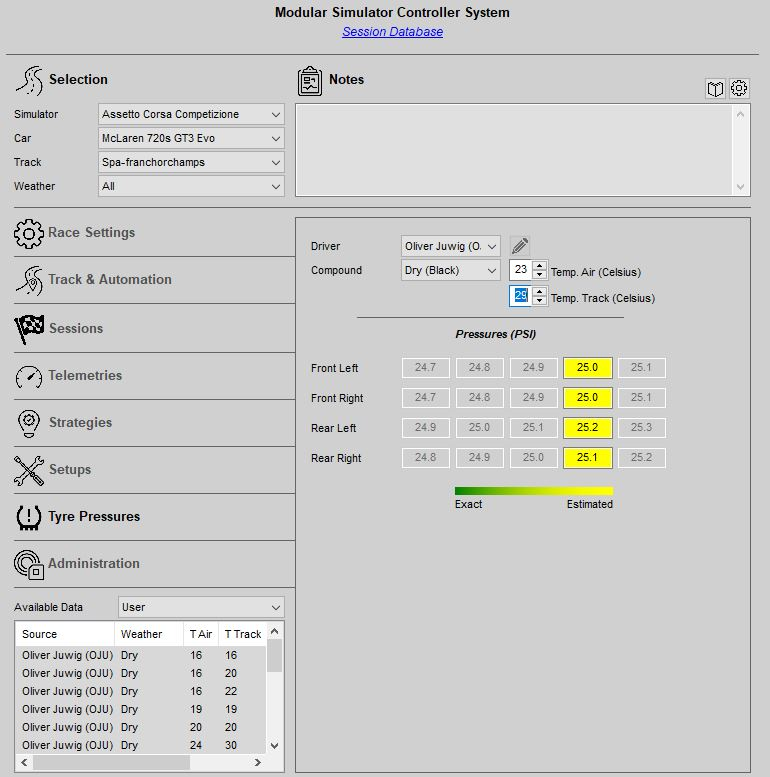
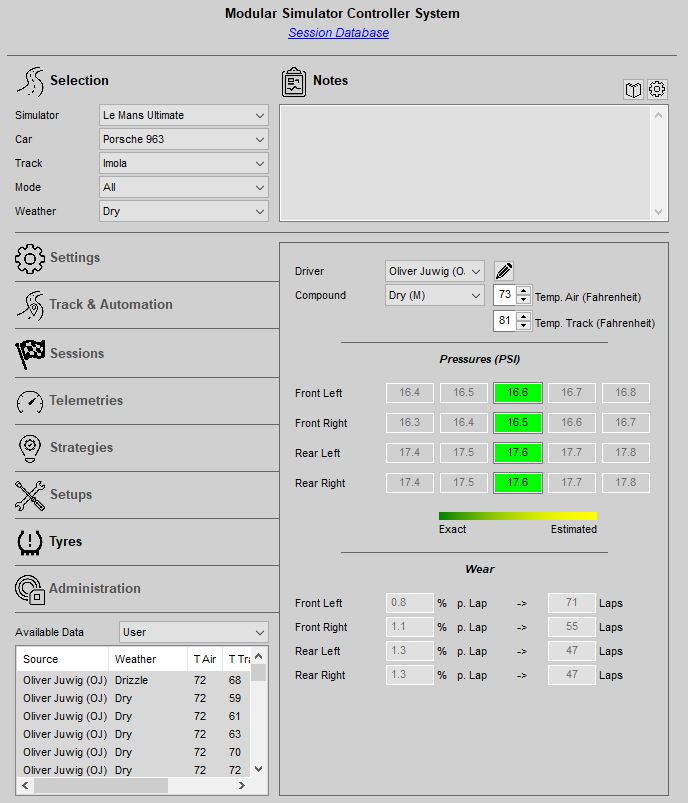
Tyre wear inspector in "Session Database"

diff --git a/Docs/Releases Archive.md b/Docs/Releases Archive.md
@@ -3669,7 +3669,7 @@ Please also take a look at the [Update Notes](https://github.com/SeriousOldMan/S
   3. The position on the screen where info and progress overlays are displayed, can now be configured in the [UI settings](https://github.com/SeriousOldMan/Simulator-Controller/wiki/Using-Simulator-Controller#customizing-controller-notifications).
   4. The session synchronization can be [temporarily disabled](https://github.com/SeriousOldMan/Simulator-Controller/wiki/Team-Center#connecting-to-a-session) in the "Race Center", while you are working with the data.
   5. The Team Server now supports synchronization of telemetry data between different members of a team. The documentation for [team management](https://github.com/SeriousOldMan/Simulator-Controller/wiki/Team-Server#managing-teams) of the Team server itself, as well as the [database configuration](https://github.com/SeriousOldMan/Simulator-Controller/wiki/Session-Database#database-configuration) of the "Session Database" has been heavily revised.
-  6. A driver may be selected in the "Session Database" when [looking for tyre pressures](https://github.com/SeriousOldMan/Simulator-Controller/wiki/Session-Database#pressures). This very helpful when looking for cold tyre pressures for your team mate during a team race.
+  6. A driver may be selected in the "Session Database" when [looking for tyre pressures](https://github.com/SeriousOldMan/Simulator-Controller/wiki/Session-Database#tyres). This very helpful when looking for cold tyre pressures for your team mate during a team race.
   7. Refactoring of the translation framework to better support the new Spanish translation.
   8. Thanks to the great work of Jose Krilin, we have an initial version of a Spanish translation. The UI has been translated for the most part and will be polished in the next weeks and you can also expect a working version of the voice generation and recognition soon.
   9. Fixed startup of Race Spotter in situations with a very short rolling or even a standing start.

diff --git a/Docs/Session Database.md b/Docs/Session Database.md
@@ -276,7 +276,7 @@ Why so complex? There is a strong dependency between the track surface state, ai
 
 Please note, that you can use the "Pencil" button to rename an already uploaded setup file to follow the above conventions, if necessary.
 
-#### Pressures
+#### Tyres
 
 Here you will get a recommendation for initial cold tyre pressures, if a matching setup is available in the database. Depending on the temperature settings the recommended tyre pressures will be marked in dark green for a perfect match, or light green or even yellow, if the values have been extra- or interpolated from different air and/or track temperatures.
 
@@ -287,6 +287,8 @@ Notes:
   1. If you choose a specific driver in the "Driver" menu, only the tyre pressures of this driver are shown, if available.
   2. If the "Session Database" tool has been [started by the "Race Settings" tool](https://github.com/SeriousOldMan/Simulator-Controller/wiki/AI-Race-Engineer#tab-session), you can transfer the current tyre pressure and compound information to the *Race Settings* by pressing the "Load" button.
   3. You can configure using the settings in the ["Session Database"](https://github.com/SeriousOldMan/Simulator-Controller/wiki/Session-Database#settings) the session types, from which tyre pressure data will be collected and stored into the database by the Race Engineer. Default is to collect tyre pressure data during practice and race sessions.
+  
+If this information is provided by the simulator API information about typical tyre wear for each wheel in the currently selected conditions and using the currently selected tyre compound may be displayed in the lower part. The number of laps per tyre will be available as well depending on the the [setting "Pitstop: Minimum tyre tread depth"](https://github.com/SeriousOldMan/Simulator-Controller/wiki/Session-Settings) in the "Session Database".
 
 ##### Browsing and editing Tyre Pressures
 

diff --git a/Docs/Releases.md b/Docs/Releases.md
@@ -32,6 +32,8 @@
   - Fixed missing meta information when loading lap telemetries from the session database into the Telemetry Viewer.
   - Fixed the coordinate system transformation for the Second Monitor connector. Telemetry files acquired from Second Monitor will now be compatible with all position related functions.
   - Once more we have a fix for the community database synchronization.
+  - Fixed a bug in Second Monitor integration, when no suspension information is available.
+  - Fixed missing lap time information, when Second Monitor is used as telemetry provider.
   
 #### Changes
 
@@ -39,6 +41,7 @@
   
     The idea of the *Setup Engineer* had been on my mind for a long time, but it was only recently that LLMs became powerful enough to handle the vast amounts of data and mathematical calculations required for a robust analysis of telemetry data. The catch, however, is that you need one of the latest state-of-the-art models from providers like OpenAI, Anthropic, or Google — and those aren't exactly cheap. But the results are worth it, I promise.
   - A diary (log file) has been implemented for the "Setup Workbench". The diary folder can be [configured in the settings](https://github.com/SeriousOldMan/Simulator-Controller/wiki/Setup-Workbench#settings) of the "Setup Workbench".
+  - The "Session Database" provides a new inspector which gives you detailed information about the tyre wear per lap for each wheel in specific weather conditions. Depending on your settings, the number of usable laps per tyre will be calculated automatically. See the [updated documentation](https://github.com/SeriousOldMan/Simulator-Controller/wiki/Session-Database#tyres) for more information.
 
 # Release history
 

diff --git a/README.md b/README.md
@@ -46,7 +46,7 @@ Please read the [Release Notes](https://github.com/SeriousOldMan/Simulator-Contr
 
 #### Current development build
 
-[7.2.0.0-dev](https://fileshare.impresion3d.pro/filebrowser/api/public/dl/uchfVZcz/Releases/Simulator%20Controller%207.2.0.0-dev.zip) (Early build for 7.2.0. Changes: Fixed missing info file when importing laps into the telemetry viewer, Fixed coordinate system for Second Monitor connector, New Setup Engineer in the "Setup Workbench", New workbench diary, Fixed database synchronization.)
+[7.2.0.0-dev](https://fileshare.impresion3d.pro/filebrowser/api/public/dl/uchfVZcz/Releases/Simulator%20Controller%207.2.0.0-dev.zip) (Early build for 7.2.0. Changes: Fixed missing info file when importing laps into the telemetry viewer, Fixed coordinate system for Second Monitor connector, New Setup Engineer in the "Setup Workbench", New workbench diary, Fixed database synchronization, Fixed Second Monitor Reader, Tyre wear inspector in "Session Database".)
 
 Please read the [Release Notes](https://github.com/SeriousOldMan/Simulator-Controller/wiki/Release-Notes#7200) and - sometimes even, Fixed startup crash in "Strategy Workbench" more important - the release specific [Update Notes](https://github.com/SeriousOldMan/Simulator-Controller/wiki/Update-Notes#release-720) of this version and all the versions you might have skipped, before installing and using this version.
 

diff --git a/Docs/Sidebar.md b/Docs/Sidebar.md
@@ -143,7 +143,7 @@
   - [Telemetries](https://github.com/SeriousOldMan/Simulator-Controller/wiki/Session-Database#telemetries)
   - [Strategies](https://github.com/SeriousOldMan/Simulator-Controller/wiki/Session-Database#strategies)
   - [Setups](https://github.com/SeriousOldMan/Simulator-Controller/wiki/Session-Database#setups)
-  - [Pressures](https://github.com/SeriousOldMan/Simulator-Controller/wiki/Session-Database#pressures)
+  - [Tyres](https://github.com/SeriousOldMan/Simulator-Controller/wiki/Session-Database#tyres)
   - [Administration](https://github.com/SeriousOldMan/Simulator-Controller/wiki/Session-Database#administration)
   - [Configuration](https://github.com/SeriousOldMan/Simulator-Controller/wiki/Session-Database#settings-1)
   

diff --git a/Docs/Backlog.md b/Docs/Backlog.md
@@ -17,9 +17,6 @@
   4. Include lap time meadian value in the lap time information given by the Strategist and others
   5. Driver Input overlay (brake / throttle) by the Driving Coach
   
-#### Session Database
-  1. Tyre wear viewer and calculator
-  
 #### Setup Workbench
   1. Collect telemetry data from multiple drivers and generate combined setup recommendations
   2. Gear ratio optimizer for the Issue Analyzer
